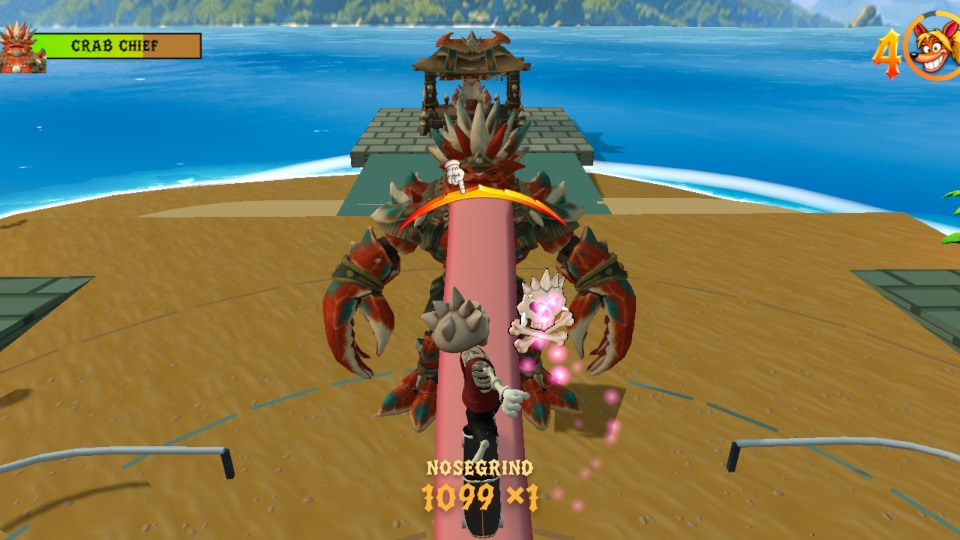
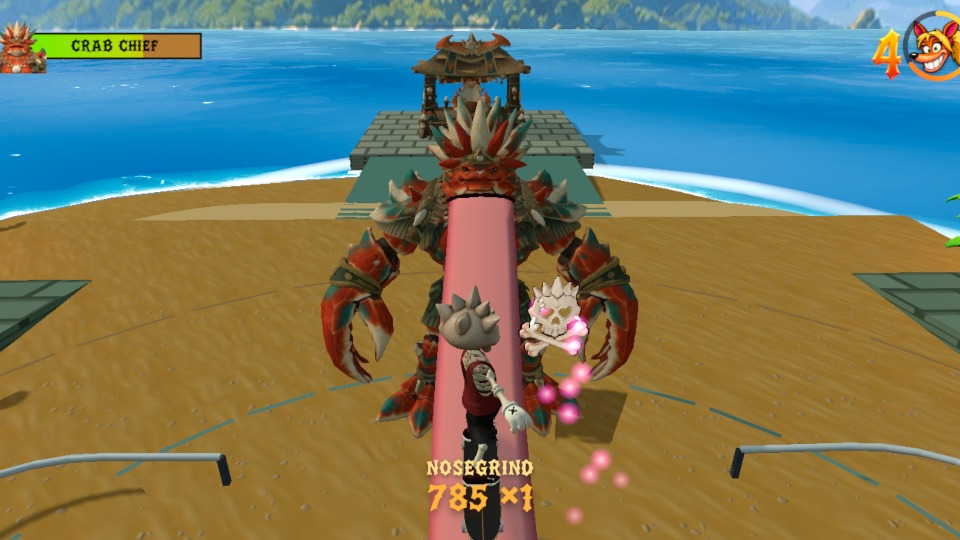
Repair chief tongue and attacks; remove checkpoint crate

diff --git a/src/boss/crabChief.ts b/src/boss/crabChief.ts
@@ -56,6 +56,7 @@ export class CrabChiefEncounter {
   private left = true;
   private invulnerability = 0;
   private fired = 0;
+  private volleyFinish = 1.6;
   private sweepPrevious = -1.3;
   private lastPosition: THREE.Vector3 | null = null;
   private actorPosition = new THREE.Vector3();
@@ -131,12 +132,17 @@ export class CrabChiefEncounter {
     this.history.push({ time: this.time, state, phase: this.phase, health: this.health });
     if (this.history.length > 160) this.history.shift();
     if (state === 'slam-tell') { this.left = !this.left; sfx.play('woosh', .5, .55); }
-    if (state === 'slam') { this.emitWave(this.target, this.phase === 3 ? 12 : 9); this.burst(this.target, 12); sfx.play('tntBoom', .38, .8); }
-    if (state === 'volley') this.fired = 0;
+    if (state === 'slam') { this.emitWave(this.target, this.phase === 3 ? 12 : 9, this.phase === 2 ? 3 : 4); this.burst(this.target, 12); sfx.play('tntBoom', .38, .8); }
+    if (state === 'volley') { this.fired = 0; this.volleyFinish = 1.6; }
     if (state === 'sweep-tell') { this.sweepPrevious = -1.3; sfx.play('woosh2', .6, .65); }
     if (state === 'sweep') this.emitWave(new THREE.Vector3(0, 0, -23), 10);
   }
-  private lockTarget(p: BossPlayerSample): void { this.target.set(clamp(p.position.x, -13.5, 13.5), 0, clamp(p.position.z, -22, -6)); }
+  private lockTarget(p: BossPlayerSample): void {
+    // The tongue approach includes the front court. Lock the real position
+    // at the tell, so standing outside the old pearl court is not a safe spot.
+    if(this.phase===2)this.target.set(p.position.x,0,p.position.z);
+    else this.target.set(clamp(p.position.x, -13.5, 13.5), 0, clamp(p.position.z, -22, -6));
+  }
   private nextAttack(p: BossPlayerSample): void {
     this.ordinal++; this.lockTarget(p);
     this.enter(this.phase === 1 ? 'slam-tell' : this.phase === 2 ? (this.ordinal % 2 ? 'volley-tell' : 'slam-tell') :
@@ -185,11 +191,11 @@ export class CrabChiefEncounter {
       case 'slam-tell': if (t > (this.phase === 3 ? .95 : 1.3)) this.enter('slam'); break;
       case 'slam':
         if (t > .17 && t < .4 && p.position.y < 2.3 && Math.hypot(p.position.x - this.target.x, p.position.z - this.target.z) < 3.05) danger = true;
-        if (t > .6) this.beginOpening(); break;
+        if (t > (this.phase===2?3.15:.6)) this.beginOpening(); break;
       case 'volley-tell': if (t > 1.15) this.enter('volley'); break;
       case 'volley':
         if (t >= this.fired * .5 && this.fired < 3) { this.fireVolley(); this.fired++; }
-        if (t > 1.6) this.beginOpening(); break;
+        if (t > this.volleyFinish) this.beginOpening(); break;
       case 'sweep-tell': if (t > 1.4) this.enter('sweep'); break;
       case 'sweep': {
         const angle = -1.3 + clamp(t / 1.8, 0, 1) * 2.6;
@@ -201,7 +207,7 @@ export class CrabChiefEncounter {
       }
       case 'recover': if (t > 6.5) this.enter('idle'); break;
       case 'tongue-form': if(t>1.2)this.enter('tongue-open'); break;
-      case 'tongue-open': if(t>12)this.enter('idle'); break;
+      case 'tongue-open': if(t>12&&!this.attachedTongue)this.enter('idle'); break;
       case 'ramp-form': if(t>1.8){this.rampFormed=true;this.enter('ramp-open');} break;
       case 'ramp-open': if(t>13)this.enter('idle'); break;
       case 'hurt': if (t > 1.05) {
@@ -242,18 +248,25 @@ export class CrabChiefEncounter {
     this.enter(this.phase===1?'recover':this.phase===2?'tongue-form':this.rampFormed?'ramp-open':'ramp-form');
   }
   private clearAttacks(): void { for (const wave of this.waves) wave.life = 0; for (const bubble of this.bubbles) bubble.life = 0; }
-  private emitWave(centre: THREE.Vector3, speed: number): void {
+  private emitWave(centre: THREE.Vector3, speed: number, life=4): void {
     const wave = this.waves.find(value => value.life <= 0); if (!wave) return;
-    wave.centre.copy(centre); wave.radius = 0; wave.previous = 0; wave.life = 4; wave.speed = speed;
+    wave.centre.copy(centre); wave.radius = 0; wave.previous = 0; wave.life = life; wave.speed = speed;
   }
   private fireVolley(): void {
     const arm = this.model.arms[this.fired % 2], origin = arm.wrist.clone().add(this.model.root.position);
     origin.z += 1.5; // visible pincer tip, not an invisible floor emitter
     const base = Math.atan2(this.target.x - origin.x, this.target.z - origin.z);
-    const drop = (.85 - origin.y) / Math.max(4, Math.hypot(this.target.x - origin.x, this.target.z - origin.z));
+    const distance = Math.hypot(this.target.x - origin.x, this.target.z - origin.z);
+    const drop = (.85 - origin.y) / Math.max(4, distance);
+    const travel = Math.hypot(distance,.85-origin.y)/8.5;
+    // Let the last aimed row reach the locked player before clearing hazards
+    // and presenting the tongue. The former 1.6s window deleted every row in
+    // flight when the rider waited in the front court.
+    const life = this.phase===2 ? travel+.55 : 5;
+    if(this.phase===2)this.volleyFinish=Math.max(this.volleyFinish,this.stateTime+life+.15);
     for (let i = -2; i <= 2; i++) {
       const bubble = this.bubbles.find(value => value.life <= 0); if (!bubble) break;
-      bubble.mesh.position.copy(origin); bubble.previous.copy(origin); bubble.life = 5;
+      bubble.mesh.position.copy(origin); bubble.previous.copy(origin); bubble.life = life;
       const angle = base + i * .22; bubble.velocity.set(Math.sin(angle), drop, Math.cos(angle)).setLength(8.5);
     }
     this.burst(origin, 5); sfx.play('woosh3', .4, 1.6);
@@ -283,7 +296,7 @@ export class CrabChiefEncounter {
     this.shield.visible = this.phase > 1 && !this.exposed && !this.defeated;this.shield.position.copy(this.pearl); this.shield.rotation.y = this.time;
     if(this.phase===2&&(this.state==='tongue-form'||this.state==='tongue-open'||(this.state==='hurt'&&this.attachedTongue))){
       const progress=this.state==='tongue-form'?clamp(this.stateTime/1.2,0,1):1;
-      this.phaseGeometry.setTongue(new THREE.Vector3(0,6.4,-23),progress,this.stateTime);
+      this.phaseGeometry.setTongue(this.model.root.position.clone().add(new THREE.Vector3(0,6.4,1)),progress,this.stateTime);
     }else this.phaseGeometry.hideTongue();
     if(this.phase===3&&!this.defeated){
       const progress=this.rampFormed?1:this.state==='ramp-form'?clamp(this.stateTime/1.8,0,1):0;
@@ -320,6 +333,7 @@ export class CrabChiefEncounter {
     hits: this.hits, playerHits: this.playerHits, grindDistance: this.grindDistance, skateDistance: this.skateDistance,
     tongueRun:this.tongueRun,tongueActive:this.phaseGeometry.tongueActive,tongueProgress:this.phaseGeometry.tongueProgress,rampActive:this.phaseGeometry.rampActive,rampProgress:this.phaseGeometry.rampProgress,launchTime:this.launchTime,rampSpeed:this.rampLipSpeed,
     activeWaves: this.waves.filter(w => w.life > 0).map(w => ({ radius: w.radius, previous: w.previous, centre: w.centre.toArray() })),
-    activeBubbles: this.bubbles.filter(b => b.life > 0).length, target: this.target.toArray(),
+    activeBubbles: this.bubbles.filter(b => b.life > 0).length,
+    bubblePositions:this.bubbles.filter(b=>b.life>0).map(b=>b.mesh.position.toArray()), target: this.target.toArray(),
     history: [...this.history], strikes: [...this.strikes], model: this.model.diagnostics }; }
 }

diff --git a/src/player.ts b/src/player.ts
@@ -4366,6 +4366,12 @@ export class Player {
     // grindRails = the authored bars PLUS the tops of any crate runs. The
     // on-foot rail block and the fall-onto-a-bar smack keep reading
     // level.rails, so a crate still behaves like a crate for both of those.
+    // A fresh unfurl is a new offer, even when Triangle stayed down after the
+    // previous mouth hit. Do not carry an endpoint latch across its absence.
+    if (this.lastRail?.chiefTongueAssist && !this.lastRail.grindable) {
+      this.grindLatched = false;
+      this.lastRail = null;
+    }
     this.railCand = nearestRail(level.grindRails, this.pos);
     this.railCandidateDist = this.railCand ? this.railCand.sample.distance : Infinity;
 
@@ -9267,7 +9273,8 @@ export class Player {
     // Warn before the brink; with zero bail grace there is no live pegged
     // frame left to display the old last-chance glow.
     const critical = Math.abs(this.balance) >= 0.7 || this.balanceCritT > 0;
-    if (this.state === 'grind') return { mode: 'grind', bal: this.balance, crit: critical };
+    if (this.state === 'grind') return this.grindRail?.chiefTongueAssist
+      ? null : { mode: 'grind', bal: this.balance, crit: critical };
     if (this.lipStallT > 0)
       // stall: whichever bar reads true on screen ('grind' = the horizontal
       // bar, 'manual' = the vertical one), needle signed to the screen too
@@ -9998,6 +10005,12 @@ export class Player {
 
   private stepGrind(dt: number, input: Input, level: Level): void {
     const rail = this.grindRail!;
+    // Retiring transient encounter geometry must never leave an invisible
+    // rider attachment. A live rider normally keeps the unfurl open instead.
+    if (rail.chiefTongueAssist && !rail.grindable) {
+      this.exitGrind(1.2, level);
+      return;
+    }
     this.grindTime += dt;
     this.balanceAge += dt;
     this.balanceEntryAge += dt;
@@ -10061,7 +10074,7 @@ export class Player {
           : this.grindStyle === 'crook'
             ? TUNING.grindDrag * 0.55
             : TUNING.grindDrag;
-      this.grindVel = Math.max(CONST.grindMinSpeed, this.grindVel - drag * dt);
+      this.grindVel = Math.max(rail.chiefTongueAssist?.minSpeed ?? CONST.grindMinSpeed, this.grindVel - drag * dt);
     }
     // SLOPED RAILS: gravity works the grind line — descending segments feed
     // speed, climbs bleed it (the same knobs as ground slopes), capped like
@@ -10069,7 +10082,7 @@ export class Player {
     const railSlope = rail.tangentAt(this.grindT).y * this.grindDir; // + = climbing
     if (Math.abs(railSlope) > 1e-3) {
       this.grindVel -= railSlope * TUNING.groundGravity * dt;
-      this.grindVel = THREE.MathUtils.clamp(this.grindVel, CONST.grindMinSpeed, TUNING.downhillMax);
+      this.grindVel = THREE.MathUtils.clamp(this.grindVel, rail.chiefTongueAssist?.minSpeed ?? CONST.grindMinSpeed, TUNING.downhillMax);
     }
 
     // THPS balance: the needle is an unstable equilibrium that runs away from
@@ -10113,7 +10126,7 @@ export class Player {
     let control = this.rawInput.moveX * TUNING.balanceControl;
     control *= this.safeGain(this.balanceEntryAge, control, runSign);
     this.stepBalanceCore(dt, runSign, instability * calm, control, ramp, calm);
-    if (this.uberTimer > 0 || this.balanceBoostT > 0) {
+    if (rail.chiefTongueAssist || this.uberTimer > 0 || this.balanceBoostT > 0) {
       this.balance = 0;
       this.balanceVel = 0;
     } // perfect balance
@@ -10325,7 +10338,11 @@ export class Player {
     // position so a fast step snaps onto the point actually under our feet,
     // not where we were 1-2 units ago.
     const s = this.railCand.rail.closest(this.pos);
-    if (s.distance > TUNING.railSnapDistance) return false;
+    const tongueEntry = this.railCand.rail.chiefTongueAssist &&
+      s.t <= this.railCand.rail.chiefTongueAssist.entryLength;
+    const catchRadius = tongueEntry
+      ? this.railCand.rail.chiefTongueAssist!.catchRadius : TUNING.railSnapDistance;
+    if (s.distance > catchRadius) return false;
     // Deck-level grabs are the normal case (rails sit ~1u above the deck);
     // only block grabbing from far beneath the rail.
     if (this.pos.y < s.point.y - 2.0) return false;
@@ -10337,7 +10354,7 @@ export class Player {
     // blocking cannot turn it into a stationary catch on the following tick.
     const approach = Math.hypot(this.lastVelX, this.lastVelZ);
     const railPlanar = Math.hypot(s.tangent.x, s.tangent.z);
-    if (approach > 1e-4 && railPlanar > 1e-4) {
+    if (!tongueEntry && approach > 1e-4 && railPlanar > 1e-4) {
       const alignment = Math.abs(
         (this.lastVelX * s.tangent.x + this.lastVelZ * s.tangent.z) /
           (approach * railPlanar),
@@ -10357,7 +10374,7 @@ export class Player {
     const vx = vertVelocity ? -this.vertNormal.z * this.vertLatVel : this.axisF.x * this.speed;
     const vz = vertVelocity ? this.vertNormal.x * this.vertLatVel : this.axisF.z * this.speed;
     const along = vx * s.tangent.x + vz * s.tangent.z;
-    const remaining = along >= 0 ? this.railCand.rail.totalLength - s.t : s.t;
+    const remaining = tongueEntry || along >= 0 ? this.railCand.rail.totalLength - s.t : s.t;
     if (remaining <= Math.max(.08, Math.abs(along) * CONST.fixedStep * 2)) return false;
     this.enterGrind(this.railCand.rail, s, level);
     return true;
@@ -10450,7 +10467,8 @@ export class Player {
     // lets you meet a rail at any angle — a perpendicular clip should give a
     // gentle grind, never rocket you down the rail at full cross-speed.
     const alongVel = worldVx * sample.tangent.x + worldVz * sample.tangent.z;
-    this.grindDir = alongVel >= 0 ? 1 : -1;
+    this.grindDir = rail.chiefTongueAssist && sample.t <= rail.chiefTongueAssist.entryLength
+      ? 1 : alongVel >= 0 ? 1 : -1;
     this.state = 'grind';
     this.grounded = false;
     this.vVel = 0;
@@ -10550,7 +10568,7 @@ export class Player {
     const alongFrac = planarIn > 0.01 ? Math.min(1, Math.abs(alongVel) / planarIn) : 1;
     this.grindVel = THREE.MathUtils.clamp(
       planarIn * (0.72 + 0.28 * alongFrac) + TUNING.railSpeedBoost,
-      CONST.grindMinSpeed,
+      rail.chiefTongueAssist?.minSpeed ?? CONST.grindMinSpeed,
       TUNING.downhillMax,
     );
     this.speed = this.grindVel;
@@ -13664,6 +13682,7 @@ export class Player {
     const smackReach = CONST.playerHalf.x + CONST.railBlockRadius;
     for (const rail of level.rails) {
       if (!rail.grindable) continue;
+      if (rail.chiefTongueAssist) continue; // a missed soft tongue catch is a fair fall, not a metal-bar bail
       const s = rail.closestXZ(this.pos);
       if (s.distXZ > smackReach) continue; // past the skin is a genuine graze
       // the fall must cross the rail line THIS step
@@ -14946,6 +14965,7 @@ export class Player {
     const reach = half.x + CONST.railBlockRadius;
     for (const rail of level.rails) {
       if (!rail.grindable) continue;
+      if (rail.chiefTongueAssist) continue; // the low tongue is an offer to grind, never a shin-trip barrier
       const s = rail.closestXZ(this.pos);
       if (s.distXZ > reach) continue;
       // THPS coping rules: the rail along a lip never fences the transition.

diff --git a/src/boss/phaseGeometry.ts b/src/boss/phaseGeometry.ts
@@ -32,7 +32,7 @@ export class ChiefPhaseGeometry {
   readonly tongueMesh: THREE.Mesh;
   readonly sandRamp: THREE.Mesh;
   private readonly mouthOpening: THREE.Mesh;
-  readonly tongueEntry = new THREE.Vector3(0,.66,-4);
+  readonly tongueEntry = new THREE.Vector3(0,.32,-4);
   readonly tongueMouth = new THREE.Vector3(0,6.4,-23);
   readonly launchPoint = new THREE.Vector3(0,4.1,-18);
   readonly launchZone = new THREE.Box3();
@@ -62,6 +62,7 @@ export class ChiefPhaseGeometry {
       new THREE.Vector3(this.rampSpec.width*.5,this.rampSpec.rise+.9,this.launchPoint.z+1.5));
     this.launchZone.translate(new THREE.Vector3(this.launchPoint.x,0,0));
     this.tongueRail=new Rail(this.fullTongue,false);this.tongueRail.object.name='Crab chief tongue · real uphill grind';this.tongueRail.grindable=false;
+    this.tongueRail.chiefTongueAssist={entryLength:4.5,catchRadius:2.3,minSpeed:6.5};
     this.root.add(this.tongueRail.object);this.tongueRail.object.visible=false;
     // Rail(false) currently owns no render resources. Register any future
     // visual descendants explicitly, so this encounter always owns cleanup.
@@ -113,11 +114,11 @@ export class ChiefPhaseGeometry {
   get tongueProgress():number {return this.tongueProgressValue;}
   get rampProgress():number {return this.rampProgressValue;}
   /** Unfurl from the live Meshy mouth. `progress` reaches one over ~1 second;
-   * the end settles, then the ordinary rail becomes catchable. Entry is low
-   * enough for a normal board ollie; the tongue climbs toward the mouth. */
+   * the end settles, then the rail becomes catchable. Its broad, low tip
+   * accepts a held grind button directly from walking or skating. */
   setTongue(mouth:THREE.Vector3,progress:number,time=0):void {
     if(this.disposed)return;
-    this.tongueMouth.copy(mouth);this.tongueEntry.set(mouth.x,.66,Math.max(-7,mouth.z+19));
+    this.tongueMouth.copy(mouth);this.tongueEntry.set(mouth.x,.32,Math.max(-7,mouth.z+19));
     const p=clamp(progress,0,1);this.tongueProgressValue=p;this.tongueMesh.visible=p>0;
     const mouthOpen=ease(p/.16);this.mouthOpening.visible=p>0;
     this.mouthOpening.position.copy(mouth).add(new THREE.Vector3(0,-.14,-.025));
@@ -143,7 +144,9 @@ export class ChiefPhaseGeometry {
       const centre=this.tongueCentres[i],next=this.tongueCentres[Math.min(TONGUE_SEGMENTS,i+1)],prev=this.tongueCentres[Math.max(0,i-1)];
       const tangent=next.clone().sub(prev).normalize();if(tangent.lengthSq()<.1)tangent.set(0,0,-1);
       const across=new THREE.Vector3().crossVectors(tangent,UP).normalize(),normal=new THREE.Vector3().crossVectors(across,tangent).normalize();
-      const u=i/TONGUE_SEGMENTS,roundTip=.5+.5*clamp(u*12,0,1),width=(.54+.16*u)*roundTip;
+      // A rounded, three-metre-wide landing tongue narrows into the mouth.
+      // The catch skin includes the rider's width around this visible tip.
+      const u=i/TONGUE_SEGMENTS,roundTip=.85+.15*clamp(u*12,0,1),width=(.7+.95*Math.exp(-u*10))*roundTip;
       for(let side=0;side<TONGUE_SIDES;side++){
         const angle=side/TONGUE_SIDES*Math.PI*2;
         const v=centre.clone().addScaledVector(across,Math.cos(angle)*width).addScaledVector(normal,Math.sin(angle)*.12-.14);

diff --git a/src/rails.ts b/src/rails.ts
@@ -43,6 +43,15 @@ export interface RailSharpCorner {
   outgoing: THREE.Vector3;
 }
 
+/** The chief's broad, moving tongue carries a caught board toward his mouth.
+ * This authored assist belongs to that encounter rail; street/terrace rails
+ * continue to use their normal angle, speed and balance rules. */
+export interface ChiefTongueRailAssist {
+  entryLength: number;
+  catchRadius: number;
+  minSpeed: number;
+}
+
 export class Rail {
   readonly points: THREE.Vector3[];
   totalLength: number;
@@ -52,6 +61,7 @@ export class Rail {
   // plunge left them — a grindable line hanging in empty air where nothing is
   // drawn. Clearing this takes it out of every grind query until it restrings.
   grindable = true;
+  chiefTongueAssist: ChiefTongueRailAssist | null = null;
   // A ramp's flush lip is a grind target, not a freestanding street barrier.
   coping = false;
   private hasVisual = true;

diff --git a/src/level.ts b/src/level.ts
@@ -1060,6 +1060,10 @@ function defaultGateFor(d: CustomLevelData): CustomComponent {
 // metadata remains visible in the modern group outliner.
 export function migrateCustomLevel(d: CustomLevelData): CustomLevelData {
   migrateSlipstreamCamera(d);
+  // Boss retries bank phase progress in the encounter and start on the pier.
+  // Old editor copies must not restore the retired physical checkpoint crate.
+  if (d.encounter === 'crab-chief')
+    d.components = d.components.filter(component => component.t !== 'checkpoint');
   // Retired vehicles must not return through saved libraries or shared files.
   // Leave the road geometry, groups and other enemies available for editing.
   d.components = d.components.filter(c => c.t !== "enemy" || (c as { foe?: string }).foe !== "car");

diff --git a/src/levels/crab-chief.ts b/src/levels/crab-chief.ts
@@ -35,7 +35,6 @@ add({ t: 'platform', p: [0, -.55, -43], s: [14, 1.1, 15], color: '#628d84', tex:
   edgeGrinding: false, nm: 'Victory causeway' });
 add({t:'platform',p:[0,-.65,-59],s:[17,1.3,16],color:'#b1b5a2',tex:'stone',edgeGrinding:false,nm:'Throne-islet foundation beyond victory arch'});
 add({ t: 'gate', p: [0, 0, -49], invisible:true, nm: 'Logical boss boundary · victory completes at the chief' });
-add({ t: 'checkpoint', p: [0, 0, 5.5], nm: 'Arena arrival · phase progress survives a retry' });
 add({ t: 'pit', p: [0, -2.8, -15], s: [130, 1, 130], invisible: true, nm: 'Deep lagoon respawn' });
 // Broad ramps offer a skating line back from both elevated reef terraces.
 for (const side of [-1, 1]) {

diff --git a/docs/CRAB_CHIEF.md b/docs/CRAB_CHIEF.md
@@ -1,6 +1,6 @@
 # Tidebreak · Crab Chief
 
-A source-owned, three-phase reef boss encounter. Play `/?playtest&level=crab-chief`, or select **Tidebreak · Crab Chief** in the developer MENU. `src/levels/crab-chief.ts` owns the supported arena, entrance pier, terraces, ramps, two curved grind rails, checkpoint, lagoon pit, normal follow camera and defeat-driven completion. `encounter: 'crab-chief'` survives editor copy, export and validated import.
+A source-owned, three-phase reef boss encounter. Play `/?playtest&level=crab-chief`, or select **Tidebreak · Crab Chief** in the developer MENU. `src/levels/crab-chief.ts` owns the supported arena, entrance pier, terraces, ramps, two curved grind rails, lagoon pit, normal follow camera and defeat-driven completion. There is no checkpoint crate; old editor/import copies also lose that retired component. `encounter: 'crab-chief'` survives editor copy, export and validated import.
 
 ## Fight
 
@@ -9,12 +9,12 @@ The chief has nine pearl segments, three per phase. Every attack has a visible w
 | Phase | Attacks | How to strike |
 | --- | --- | --- |
 | Clawbreaker | Alternating aimed claw slams and expanding ripples | Leave the locked red circle, jump the ripple and spin the lowered golden pearl. A fast board strike also works. |
-| Tongue Rider | Aimed pincer bubble volleys alternate with claw slams | After the attack, his tongue unfurls from his mouth into an uphill rail. Catch it and grind all the way up to strike him. The terrace rails do not grant boss damage. |
+| Tongue Rider | Aimed pincer bubble volleys alternate with claw slams; shots and expanding ripples finish travelling before the opening | After the attack, his tongue unfurls from his mouth into an uphill rail. Hold grind near its broad, low tip while walking or skating; the tongue carries the caught board steadily to his mouth. No timed ollie or balance correction is required. The terrace rails do not grant boss damage. |
 | Sand Launch | Low sweeps, paired ripples, slams and bubble volleys | A sand skate ramp forms. Build speed, ride up the ramp and spin into the chief while airborne. Walking up, jumping from elsewhere or reaching him without a spin cannot damage him. |
 
-Keyboard: arrows/WASD move, Space jumps (hold while moving to push on the board; release for a charged ollie), F strikes, E catches a rail and left/right balances it, Q uses the existing grab/brake controls. The HUD shows only a chief portrait, name and continuous green-to-orange health bar. It contains no hearts, attack instructions, phase/charge text or control prompts. No movement tuning defaults are changed.
+Keyboard: arrows/WASD move, Space jumps (hold while moving to push on the board; release for a charged ollie), F strikes, E catches a rail, Q uses the existing grab/brake controls. Ordinary rails use left/right balance; the chief's tongue has a stable assisted ride and no balance meter. Its rounded tip is 0.32 m high and about 2.8 m wide, with a generous 2.3 m catch radius near the entry and at least 6.5 m/s uphill travel. Misses do not trigger metal-rail trips. A valid late catch can finish before retraction. The HUD contains no hearts, attack instructions, phase/charge text or control prompts. Global movement and rail tuning defaults are unchanged.
 
-Every attempt starts with two masks. Ordinary mask damage, invulnerability and uber rules apply; an unmasked attack is fatal. There is no separate heart pool or phase heal. Reaching a new phase banks that phase for a soft retry. A soft retry restarts that phase's three health segments; a hard restart returns to phase one. Successful tongue and sand-spin hits recoil the rider into the arena. Once the chief yields, a lagoon retry keeps the victory. After the finite kneeling defeat animation, victory completes the level automatically at the chief. Boss levels have no bonus, crystal pickup or warp pad.
+Every attempt starts with two masks at the original arrival pier. Ordinary mask damage, invulnerability and uber rules apply; an unmasked attack is fatal. There is no separate heart pool or phase heal. Reaching a new phase banks that phase for a soft retry. A soft retry restarts that phase's three health segments; a hard restart returns to phase one. Successful tongue and sand-spin hits recoil the rider into the arena. Once the chief yields, a lagoon retry keeps the victory. After the finite kneeling defeat animation, victory completes the level automatically at the chief. Boss levels have no bonus, crystal pickup or warp pad.
 
 ## Art and motion
 
@@ -29,18 +29,22 @@ Three image-to-3D jobs consumed **45 existing Meshy credits**; the failed auto-r
 ## Verification
 
 - `node tools/test-crab-chief-skin.mjs`: 900 actual surface motion samples, 9,640 finite vertices per sample, normalized weights, 156 planted sole vertices, floor clearance and whole-rig finite defeat settle. `chief-skin-review.html` provides local front/side/back pose and motion inspection.
-- `node tools/test-crab-chief.mjs`: source/editor schema, supported spawn, carapace collision, checkpoint and lagoon respawn, no crystal/warp pad, defeat completion, animation finiteness/planted feet, low-poly budget, earned tongue/ramp strike rules, telegraph lock, mask damage and soft/hard/victory retries.
+- `node tools/test-crab-chief.mjs`: source/editor schema, supported spawn, carapace collision, original-spawn lagoon respawn, no checkpoint/crystal/warp pad, defeat completion, animation finiteness/planted feet, low-poly budget, earned tongue/ramp strike rules, telegraph lock, mask damage and soft/hard/victory retries.
+- `node tools/test-chief-attacks.mjs`: production Player hit/dodge cases for front-court volleys and slams/ripples, finished hazard travel before the tongue opening, late-rider support and unchanged phase-one timing.
+- `node tools/test-crab-chief-tongue-access.mjs`: fixed-input walking/skating approaches from offsets and angles, no balance correction or precise ollie, real mouth hits, safe misses, mounted board presentation and held-button recatch after retraction.
 - `node tools/test-chief-controls.mjs`: screen-relative walking and skating from all sides, held-direction continuity, behind-chief ollies/landings and two-mask start/retry rules.
 - `node tools/test-crab-chief-phase-geometry.mjs`: real uphill Rail grind, native sand ground contact, speed-earned ramp launch and geometry lifecycle.
 - `node tools/test-crab-chief-journey.mjs`: one complete production `Player` run using only input samples, with all nine earned hits, real grinds, skating strikes, phase transitions, defeat and automatic completion. No pose, health, charge, tuning or phase edits.
 - `crab-chief-review.html?playtest&level=crab-chief&lite` and the same URL without `lite`: run the same input pilot in the real browser. The page records rendered rider framing and pre-CRT HUD diagnostics in `#chief-review-evidence`. This authoring page is excluded from the production build.
 - `node tools/test-chief-bonus-entrance.mjs`: boss source/runtime exclusion and an old editor copy with an authored pad remain bonus-free; arrival stays supported.
-- Required level validation/build scripts plus ordinary enemy, level-security and interface-cache regressions. The full suite is not part of this iteration.
+- Required level validation/build scripts and focused boss/control/geometry checks. The full suite is not part of this iteration.
 
 The source encounter lives in its own module, preserving the existing Blockworks geometry lab and the shared published editor pack.
 
-Current full-render combat captures: `docs/crab-chief-tongue.jpg` and `docs/crab-chief-sand-launch.jpg`. Earlier captures document retired iterations.
+Current full-render combat captures: `docs/crab-chief-tongue.jpg`, `docs/crab-chief-volley.jpg` and `docs/crab-chief-sand-launch.jpg`. Earlier captures document retired iterations.
 
-The revised production-controller journey clears in 4,983 fixed steps (83.05 seconds): three pearl hits, three actual tongue grinds (56.85 m total), then three earned sand-ramp spins. Lip speeds are 12.28, 10.46 and 12.08 m/s. There are zero deaths/bails and both masks remain. Lite and full Chrome runs each finish in 5,023 steps, with the same nine strike kinds, no HUD hints/hearts and no console errors. Full-render inspection records 332 rider/chief framing samples with no vertices behind the camera. The Level Select thumbnail comes from the new real tongue-grind frame.
+The repaired production-controller journey clears in 5,079 fixed steps (84.65 seconds): three pearl hits, three actual tongue grinds (57.24 m total), then three earned sand-ramp spins. It uses only held grind plus forward input on the tongue, without timed ollies or balance correction. There are zero deaths/bails and both masks remain. Lite/full Chrome runs finish in 5,138/5,136 steps with no checkpoint, HUD hints/hearts or console errors. Full render records 516 real grind frames without an active balance meter and 138 frames of live phase-two projectiles. The Level Select thumbnail comes from the new real tongue-grind frame.
+
+The access matrix covers 32 fixed-input approaches, including six walking approaches started during the unfurl. Production attack checks prove stationary slams/volleys consume a mask, retreat dodges volleys, and sidestep plus a jump dodges the slam ripple. The optional ordinary `test-rail-air-transfer.mjs` check still fails its existing “Boardslide 1 -1 torso faced opposite input” assertion with both the current code and the published `3e36bff` Player/Rail baseline. That unrelated baseline failure was preserved.
 
 `node tools/test-chief-camera.mjs` checks boss-facing yaw, close-distance bounds, rider/chief vertical framing and base-camera restoration around the arena. The HUD portrait is a transparent render of the existing Meshy chief.

diff --git a/docs/LEVEL_ITERATIONS.md b/docs/LEVEL_ITERATIONS.md
@@ -442,3 +442,6 @@
 
 
 | 258 | Chief controls, two masks, tongue grind and sand launch | ~25 min to first complete playable clear; full-render review and publication verification followed | Automatic from main | Fix inverted controls behind chief; no hearts, start with two masks; keep phase one, grind unfurled tongue in phase two, fast sand-ramp airborne spin in phase three | Boss camera heading drives screen-relative movement with held-direction continuity and stable airborne board heading/raw grind balance. Removed heart pool/UI; normal masks and lethal unmasked damage. Actual uphill tongue Rail fitted to Meshy mouth, locally unfurling surface, and native sand collision ramp rising from the arena. Earned hits recoil into the arena. Phase one slam/ripple/pearl rules preserved. Existing Meshy assets/coastline, close camera, portrait health bar and boss exclusions retained; real-render preview updated | Input-only production clear: 4,983 frames / 83.05 s, nine phase-specific hits, 56.85 m tongue grinding, three ramp spins at 10.46–12.28 m/s, no deaths/bails, both masks intact. 32 walking/16 skating orientation fixtures and three behind-chief ollie/landings pass. Wrong rails, missing ramp support/speed/spin/height, phase retries, actual two-mask→fatal damage and geometry lifecycle pass. Lite/full Chrome each clear in 5,023 steps; full has 332 framing samples, zero behind-camera vertices or console errors. Required level/build and focused camera/HUD tests pass; no global movement retuning or full suite. See CRAB_CHIEF.md and new tongue/sand-launch captures. |
+
+
+| 259 | Remove chief checkpoint and repair phase-two attacks/tongue | ~6 min to the first revised playable clear; input matrix, attack/animation review and publication verification followed | Automatic from main | No checkpoint crate; tongue too finicky and phase-two attacks broken | Removed physical checkpoint from source and old editor/import copies, preserving original-pier two-mask retries and encounter phase banking. Phase-two aim locks actual arena position; volleys/ripples finish travelling before tongue formation. Low broad tongue entry, generous held-button catches, steady 6.5 m/s actual Rail ride and no balance meter; fair misses/retraction/recatch, late rides finish and unfurl follows the moving mouth. Ordinary rail/global movement tuning, phase one, phase three and existing Meshy/coastline assets retained | 32 fixed-input foot/skate approaches pass, including six during formation, offset/side/past-tip entries, mounted board, safe misses and held recatch. Production stationary attack cases lose a mask; retreat or sidestep+jump dodge. Source/old-copy checkpoint exclusion and supported original-spawn retries pass. Input-only nine-hit clear: 5,079 steps / 84.65 s, 57.24 m tongue grinding, no deaths/bails, two masks. Lite/full Chrome clears, visible projectile flight, stable tongue HUD and finite mouth alignment verified with no console errors. Required level/build and focused boss/control/geometry tests pass. Optional ordinary rail-transfer assertion fails identically on the prior baseline; documented without unrelated changes. No full suite. |
